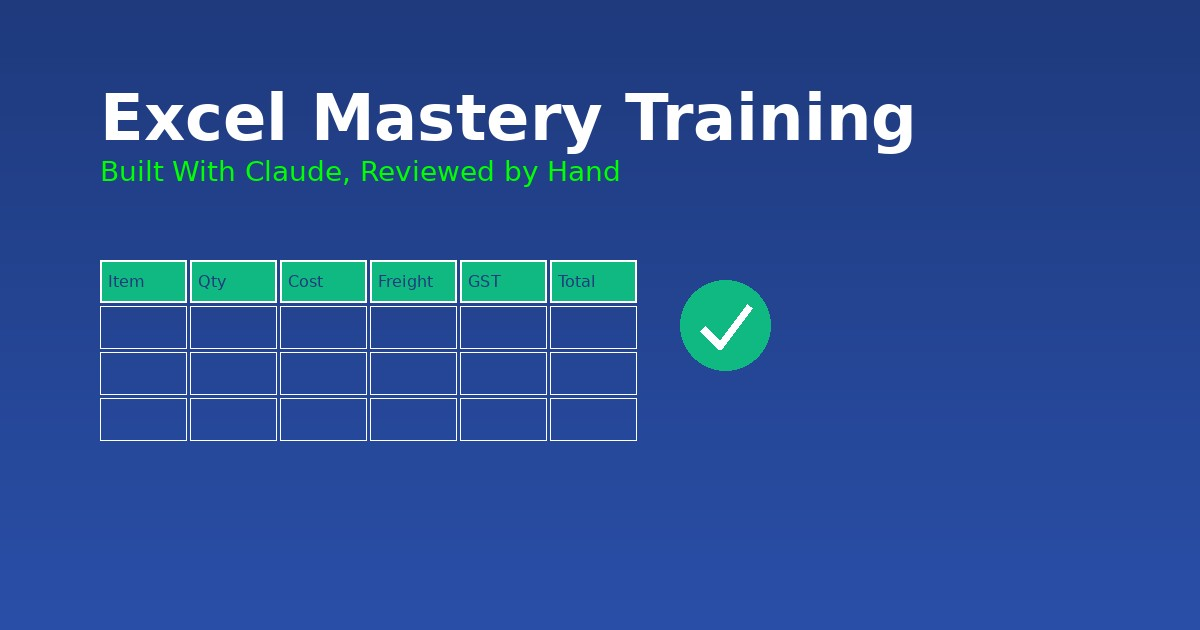
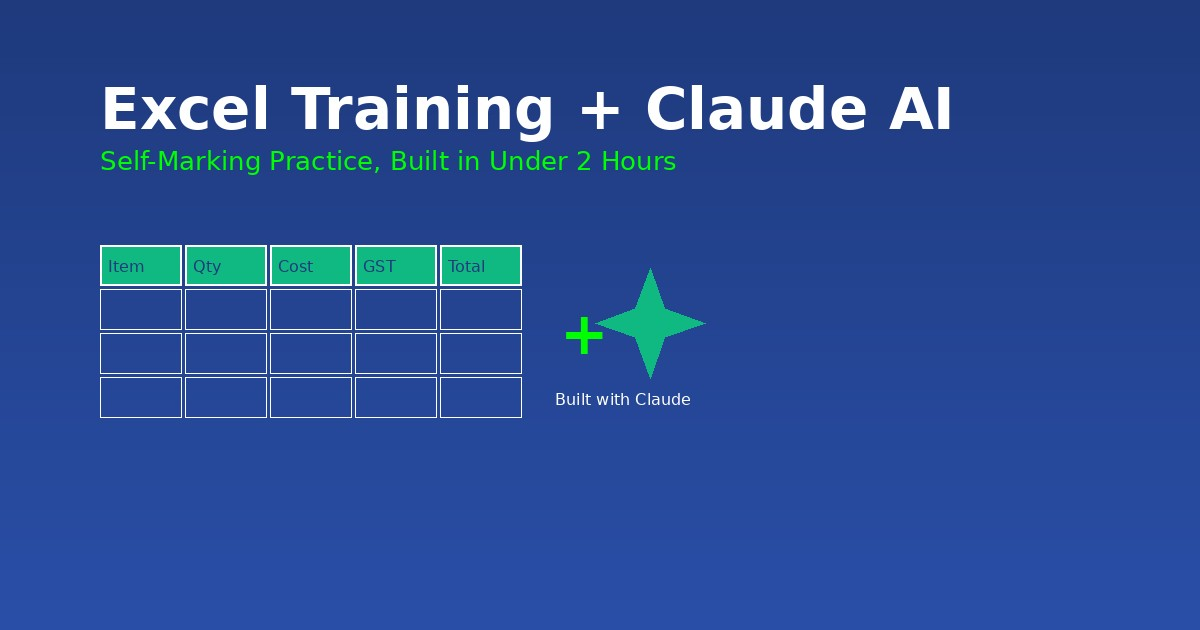
Fix post #5: mandatory hero image, PAUL callout styling, soft CTA
- Added missing inline hero image between PAUL's Quick Read and the Table
  of Contents - every other post (001-004) has this; post 005 was drafted
  without it. Regenerated the hero graphic to literally show 'Excel
  Training + Claude AI' (spreadsheet grid + generic AI sparkle icon, no
  trademarked logos) instead of the more generic original version.
- Restyled PAUL's Prompt to use the same blockquote container as PAUL's
  Quick Read and PAUL's LevelUp (was previously a bare h3 + details block,
  inconsistent with the other two callouts on this and every other post)
- Added a soft mid-article CTA in the download section: makes clear the
  workbook is only a sample extract, and points the reader to either
  PAUL's Prompt (self-serve) or booking a discovery call (done-for-you)
- Verified: npm run build compiles clean, static shells regenerate
  correctly, HTML tag nesting balanced (blockquote/details/div counts
  checked programmatically)

Also saved as house style rules to memory (blog_post_style_conventions.md)
so all three apply to every future post, not just this one.

Changed region(s): [[0.0617, 0.3619, 0.6475, 0.7238], [0.0617, 0.1206, 0.8017, 0.3016]]

diff --git a/public/blog/005_excel_workbook_ai_build.md b/public/blog/005_excel_workbook_ai_build.md
@@ -26,6 +26,8 @@ tags: ["Excel Training", "AI Tools", "Networking", "Career Coaching"]
 <p>A colleague from a decade-old job remembered me and asked for Excel coaching — proof that being approachable and genuinely skilled still gets you work in an AI world. I built his entire 33-sheet, self-marking Excel course with instant feedback (built with Claude) in under 2 hours, and because it's built from natural language rather than typed by hand, that same skeleton now reskins for any industry in a fraction of that time. Download a free 10-tab practice workbook sample below to see exactly how it teaches.</p>
 </blockquote>
 
+<img src="/blog/excel-mastery-training-hero.jpg" alt="Excel training workbook built with Claude AI - self-marking spreadsheet grid showing instant feedback practice mechanic" style="max-width: 100%; border-radius: 8px; margin: 1.5rem 0; display: block;">
+
 <p style="text-align: center; color: #6b7280; font-size: 0.95rem; font-style: italic; margin: -1rem 0 2rem;">Excel training built with Claude — a real 33-sheet, self-marking course, not a demo.</p>
 
 <details style="background: #f7f9fc; border: 1px solid #e5e7eb; border-radius: 8px; padding: 1.5rem; margin: 2rem 0;">
@@ -181,20 +183,22 @@ tags: ["Excel Training", "AI Tools", "Networking", "Career Coaching"]
 
 <p style="text-align: center; margin: 1.5rem 0;"><a href="/downloads/Excel_Mastery_Training_Sample.xlsx" style="background: #00FF00; color: #1f3a7d; padding: 0.75rem 1.75rem; border-radius: 6px; text-decoration: none; font-weight: 700; display: inline-block;">⬇ Download the Sample (.xlsx)</a></p>
 
+<p>To be clear: what you're downloading is only a sample extract, enough to show you what's genuinely possible when this is built properly. If you want to build something like this yourself — for you, for a student, or for someone on your team — the comprehensive PAUL's Prompt further down this article will get you most of the way there. If you'd rather I just build it for you (or walk you through doing it), <a href="https://cal.com/app-coaching-xcgvda" style="color: #1f3a7d; text-decoration: underline; text-decoration-color: #00FF00; text-decoration-thickness: 2px; font-weight: 600;">book a free discovery call</a> and I'll show you exactly how.</p>
+
 <h2 id="the-catch">The Catch: You Still Need to Know Excel</h2>
 
 <p>Here's the part I don't want glossed over. None of this works if the person driving it doesn't actually know Excel. Claude wrote the scripts, generated the formulas, and rebuilt the file a dozen times in one sitting — but I still had to review every flagged error from the recalculation gate and judge which ones were real bugs versus false alarms. I still had to know that an <code>AVERAGEIFS</code> returning <code>#DIV/0!</code> on a zero-match condition is expected behaviour, not a formula written wrong. I still had to know what "good" looks like in a self-marking quiz mechanic, in a PivotTable, in a Power Query step — because Claude can build fast, but it can't tell you whether what it built is actually teaching the right thing. The same discipline applies every time I reskin this for a new client: I still have to check that the new dataset and formulas make sense for that industry, not just swap in new column headers and hope.</p>
 
 <p>This is the same principle behind <a href="/blog/how-to-build-a-website-with-ai-no-code-under-100" style="color: #1f3a7d; text-decoration: underline; text-decoration-color: #00FF00; text-decoration-thickness: 2px; font-weight: 600;">building a website with AI</a>: the tool collapses the time it takes to produce something, it doesn't collapse the expertise needed to know if the output is right. If you can't read a formula, you can't catch the one formula in 2,126 that's subtly wrong. AI is a force multiplier on existing skill, not a replacement for it.</p>
 
-<h3 style="margin-top: 2rem;">PAUL's Prompt (Build Your Own Excel Training Workbook)</h3>
+<blockquote style="background: #f9fafb; border: 1px solid #e5e7eb; border-radius: 12px; padding: 2rem; margin: 2rem 0; color: #1F3A7D; border-left: 4px solid #00FF00;">
+<strong>📋 PAUL's Prompt (Build Your Own Excel Training Workbook)</strong>
+<p>If you want to build your own reusable, self-marking Excel training workbook with <a href="https://claude.ai" style="color: #1f3a7d; text-decoration: underline; text-decoration-color: #00FF00; text-decoration-thickness: 2px; font-weight: 600;">Claude</a>, this is the comprehensive version of the exact structure that produced this one:</p>
 
-<p><strong>If you want to build your own reusable, self-marking Excel training workbook with <a href="https://claude.ai" style="color: #1f3a7d; text-decoration: underline; text-decoration-color: #00FF00; text-decoration-thickness: 2px; font-weight: 600;">Claude</a>, this is the comprehensive version of the exact structure that produced this one:</strong></p>
-
-<details style="background: #f7f9fc; border: 1px solid #e5e7eb; border-radius: 8px; padding: 1.5rem; margin: 1rem 0;">
+<details style="background: #ffffff; border: 1px solid #e5e7eb; border-radius: 8px; padding: 1.5rem; margin: 1rem 0;">
   <summary style="cursor: pointer; font-weight: 700; color: #1f3a7d; user-select: none;">📋 See Full Prompt (Click to Expand)</summary>
   <div style="margin-top: 1rem;">
-    <p style="background: #ffffff; border-left: 4px solid #00FF00; padding: 1.5rem; color: #1f3a7d; font-family: monospace; font-size: 0.9rem; line-height: 1.8; margin: 1rem 0; white-space: pre-wrap;">I want to build a self-marking Excel training workbook using Python (openpyxl), not by typing it into Excel by hand. Before you build anything, interview me and wait for my answers:
+    <p style="background: #f9fafb; border-left: 4px solid #00FF00; padding: 1.5rem; color: #1f3a7d; font-family: monospace; font-size: 0.9rem; line-height: 1.8; margin: 1rem 0; white-space: pre-wrap;">I want to build a self-marking Excel training workbook using Python (openpyxl), not by typing it into Excel by hand. Before you build anything, interview me and wait for my answers:
 
 (1) Who is this training for? (their job title, industry, current Excel skill level)
 (2) What topics should it cover, and in what order or sessions?
@@ -223,6 +227,7 @@ Flag anything you're not fully confident is correct so I can review it myself be
     <button onclick="navigator.clipboard.writeText(document.getElementById('prompt-training-full').textContent).then(()=>{const b=this;const orig=b.textContent;b.textContent='✅ Copied!';b.style.background='#1f3a7d';b.style.color='white';setTimeout(()=>{b.textContent=orig;b.style.background='#00FF00';b.style.color='#1f3a7d';},2000);})" style="background: #00FF00; color: #1f3a7d; border: none; padding: 0.75rem 1.5rem; border-radius: 6px; font-weight: 700; cursor: pointer; font-size: 0.95rem; margin-top: 1rem;">📋 Copy Prompt</button>
   </div>
 </details>
+</blockquote>
 
 <div id="prompt-training-full" style="display: none;">I want to build a self-marking Excel training workbook using Python (openpyxl), not by typing it into Excel by hand. Before you build anything, interview me and wait for my answers:
 
